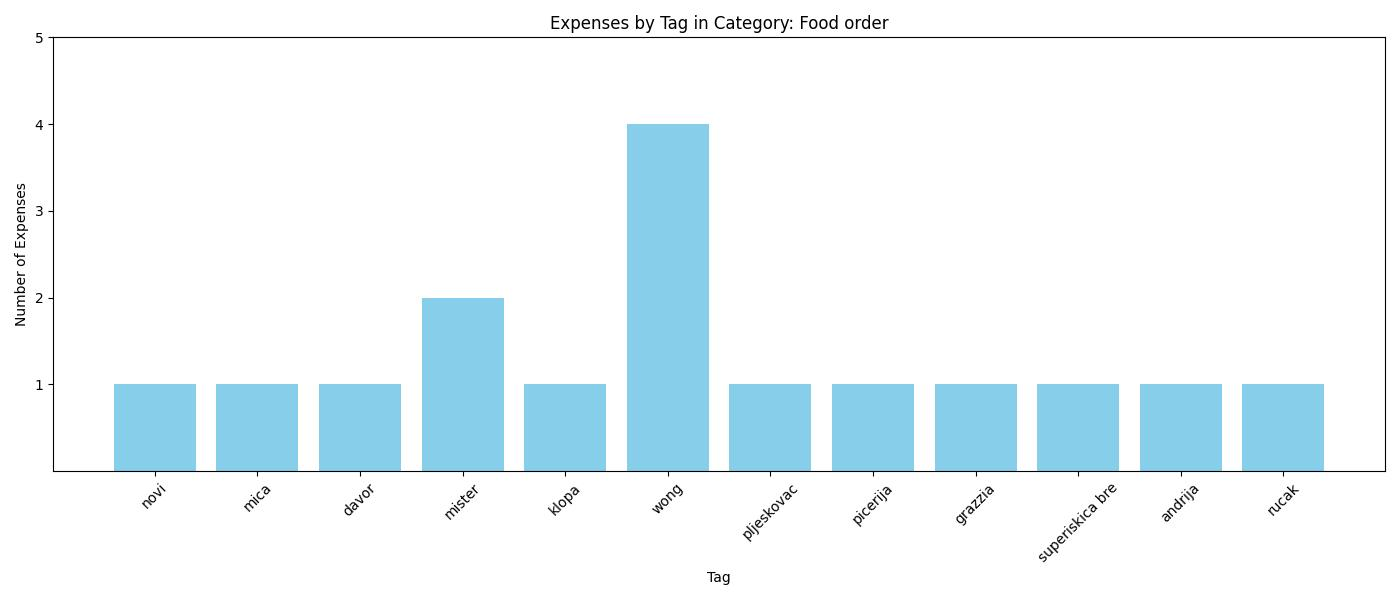
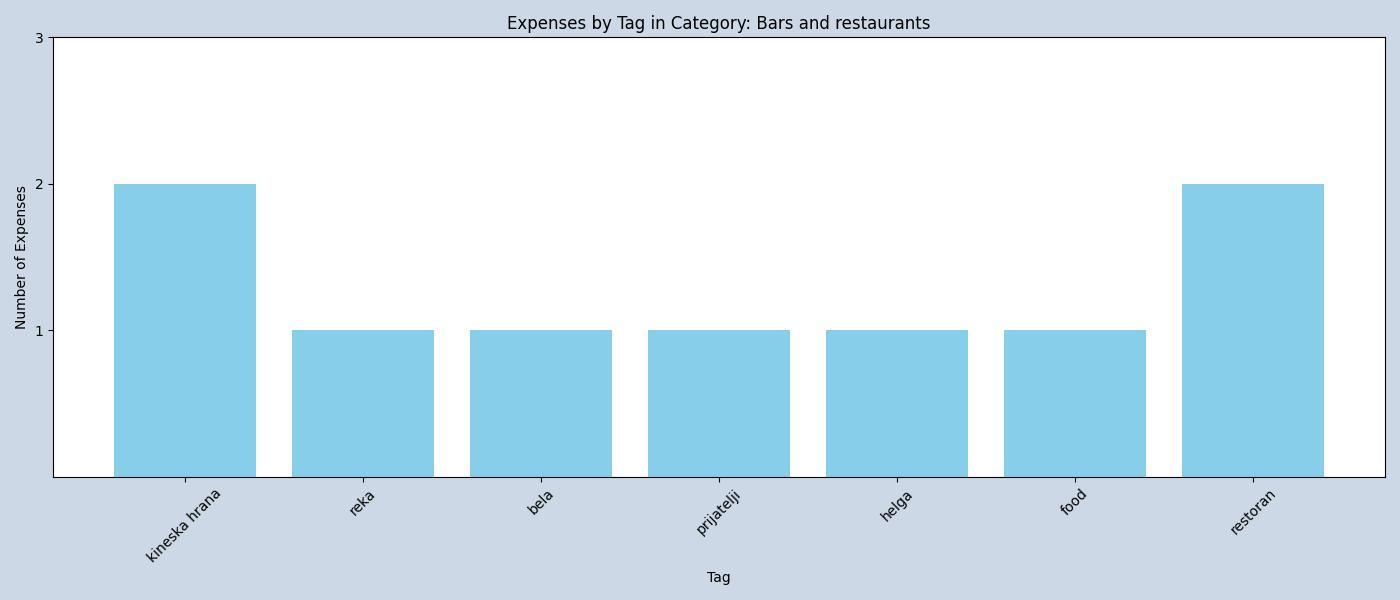
Add generate empty json

diff --git a/money_control/templates/download_custom.html b/money_control/templates/download_custom.html
@@ -1,0 +1,76 @@
+<!DOCTYPE html>
+<html lang="en">
+<head>
+    <meta charset="UTF-8">
+    <title>Download generated json</title>
+    <style>
+        body {
+            font-family: Arial, sans-serif;
+            margin: 20px;
+            background-color: #ccd8e5;
+        }
+        .back-button {
+            position: absolute;
+            top: 20px;
+            margin-left: 230px;
+            background-color: #4caf50;
+            color: white;
+            border: none;
+            padding: 10px 20px;
+            border-radius: 4px;
+        }
+        .back-button:hover {
+            background-color: #45a049;
+            cursor: pointer;
+        }
+        .card-container {
+            display: flex;
+            flex-wrap: wrap;
+            justify-content: center;
+            margin-top:20px;
+        }
+
+        .card {
+            width: calc(33.3% - 20px);
+            margin-bottom: 20px;
+            background-color: #fff;
+            border-radius: 8px;
+            box-shadow: 0 0 10px rgba(0, 0, 0, 0.1);
+            padding: 20px;
+            box-sizing: border-box;
+        }
+        .alert.error {
+            background-color: #ffcccc;
+            border: 1px solid #ffcccc;
+            color: #333;
+            padding: 10px;
+            margin: 0 auto;
+            width: 590px;
+            text-align: center;
+            border-radius:8px;
+        }
+    </style>
+</head>
+<body>
+    {% include 'sidebar.html' %}
+    <button class="back-button" onclick="window.location.href='/';">Back</button>
+    <div class="container">
+        <form method="POST" action="/download_generated_json">
+            <div class="card-container">
+                    <div class="card">
+                    <label for="num_obj">Enter number of objects:</label><br>
+                    <input type="number" id="num_obj" name="num_obj" ><br><br>
+                    <input type="submit" value="Download JSON">
+                    </div>
+            </div>
+        </form>
+    </div>
+    {% with messages = get_flashed_messages(with_categories=true) %}
+        {% if messages %}
+            {% for category, message in messages %}
+                <div class="alert {{ category }}">{{ message }}</div>
+            {% endfor %}
+        {% endif %}
+    {% endwith %}
+</body>
+</html>

diff --git a/money_control/templates/sidebar.html b/money_control/templates/sidebar.html
@@ -44,6 +44,7 @@
         <a href="/category">Category expenses</a>
         <a href="/generate">Show expenses</a>
         <a href="/extract_expenses">Download expenses</a>
+        <a href="/download_custom">Generate JSON</a>
     </div>
 </div>
 <script>

diff --git a/money_control/routes.py b/money_control/routes.py
@@ -1,7 +1,8 @@
 from flask import request, render_template, flash, redirect, send_file
 from money_control import app, db_conn, cur
 from money_control.utils import (get_categories, load_json, check_expenses_id,
-                                 category_id_name, suggested_tags, is_valid_custom_tag, check_category_name)
+                                 category_id_name, suggested_tags, is_valid_custom_tag,
+                                 check_category_name, generate_new_json)
 from datetime import datetime
 import base64
 import os
@@ -547,7 +548,7 @@ def generate_tag_chart():
         tags = [row[0] for row in tag_data]
         expenses_counts = [row[1] for row in tag_data]
 
-        plt.figure(figsize=(14, 6))
+        plt.figure(figsize=(14, 6), facecolor='#ccd8e5')
         plt.bar(tags, expenses_counts, color='skyblue')
         plt.xlabel('Tag')
         plt.ylabel('Number of Expenses')
@@ -569,3 +570,20 @@ def generate_tag_chart():
     return render_template('generate_tag_chart.html', categories=categories, chart_img=chart_img,
                            selected_category_name=selected_category_name)
 
+@app.route('/download_custom')
+def download_custom():
+    return render_template('download_custom.html')
+@app.route('/download_generated_json', methods=['POST'])
+def download_generated_json():
+    num_obj = request.form.get('num_obj')
+
+    if not num_obj or int(num_obj) <=0:
+        flash("You can't generate json file without object", 'error')
+        return redirect('/download_custom')
+
+    data = generate_new_json(num_obj)
+    file_path = os.path.join(os.path.dirname(__file__), 'generate.json')
+    with open(file_path, 'w') as file:
+        json.dump(data, file, indent=4)
+
+    return send_file(file_path, as_attachment=True)

diff --git a/money_control/utils.py b/money_control/utils.py
@@ -88,3 +88,17 @@ def validate_custom_tags(custom_tags):
 def is_valid_custom_tag(tag):
     pattern = r'^[a-zA-Z0-9,\s]+$'
     return bool(re.match(pattern, tag))
+
+def generate_new_json(user_input):
+    data = []
+    for i in range(int(user_input)):
+        obj = {
+            "category_id": "",
+            "description": "",
+            "price": "",
+            "date": "",
+            "expenses_id": ""
+        }
+        data.append(obj)
+        print(user_input)
+    return data
